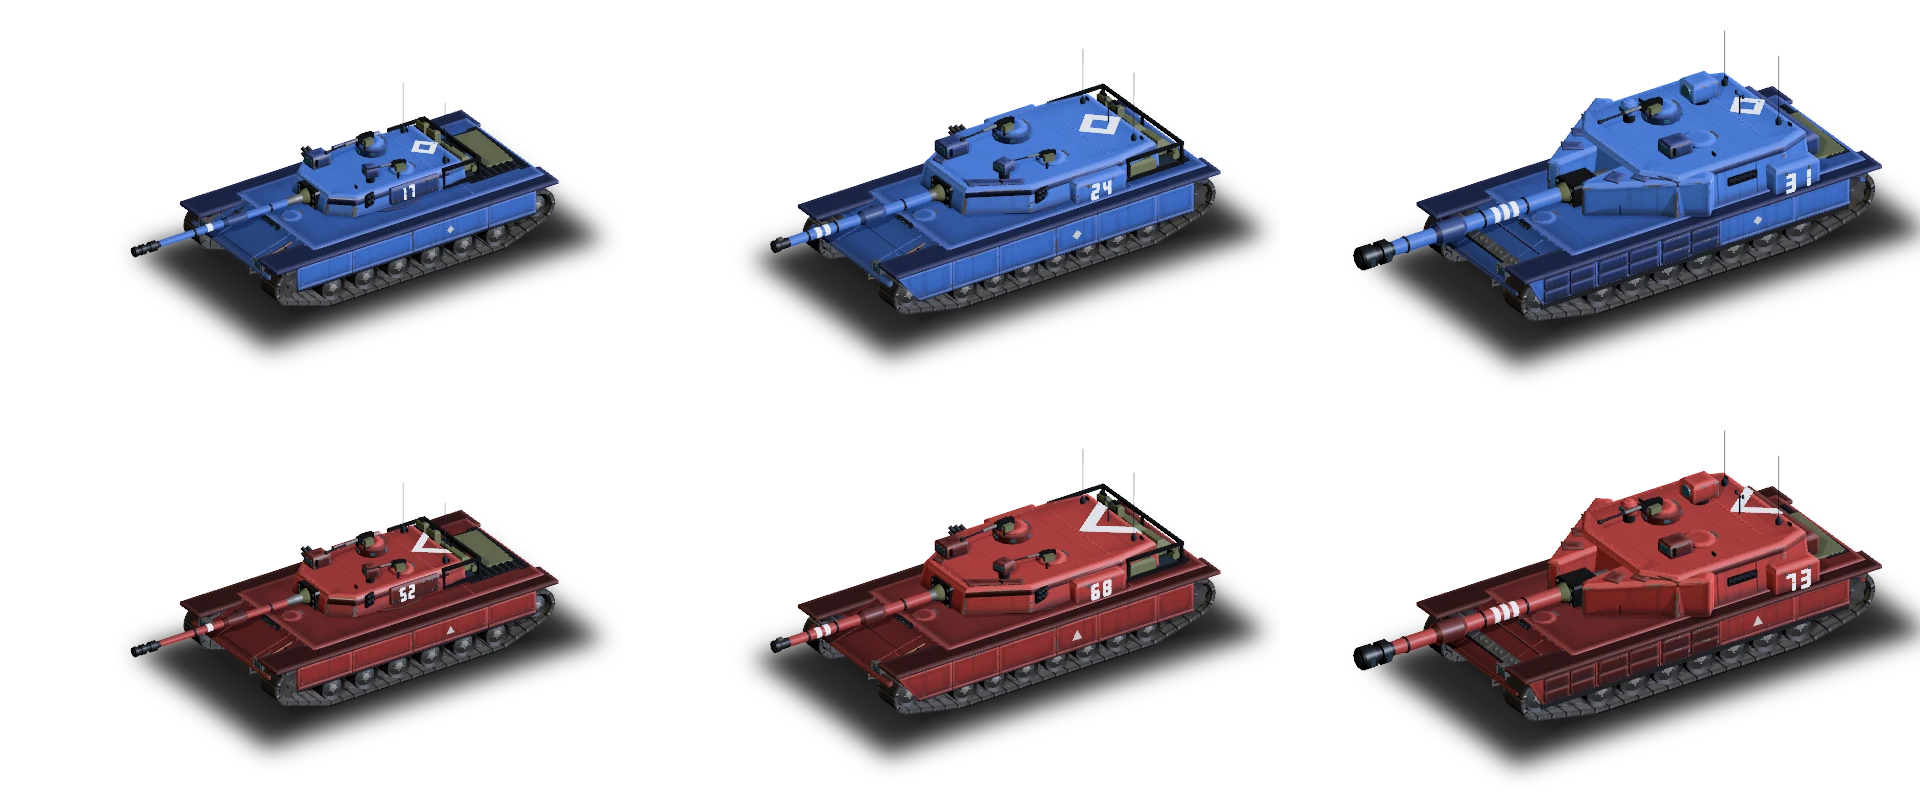
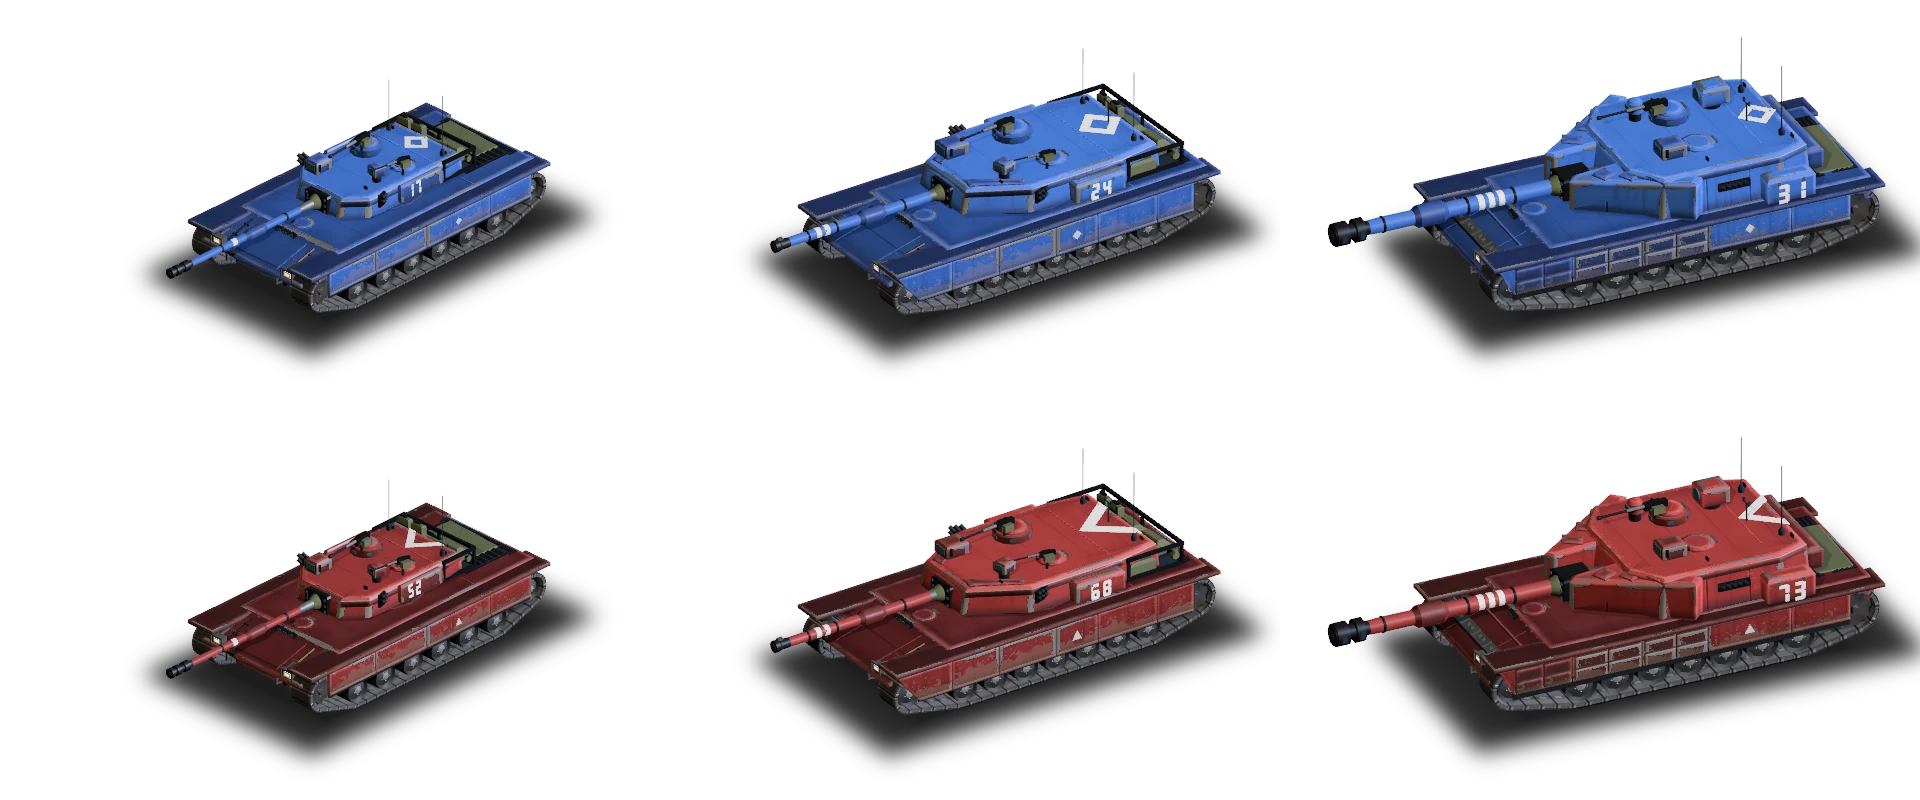
Vehicles round 9: worn markings, lamp lenses, readable edge wear, warm running gear
- Markings (roof chevron and diamond, unit numbers, gun and command bands, the
  Humvee's hood insignia) draw in the paint's own material as a warm stencil
  white that flakes through to the team paint and takes the map's dust, instead
  of pure unlit white; no extra draws.
- Headlight lenses (tanks and Humvee) use the paint effect's lamp mode: warm
  glass with a hot core falling off to a darker reflector ring, replacing the
  cyan glass pips and grey discs.
- Edge wear reads from the hero and first-person cameras and on the menu cards:
  a broken band of rubbed, paler paint along convex plate edges, chips resolved
  further out in a darker scuffed steel, mud spatter above the caked splash
  line, roughness drifting across panels, patchy dust on fender ledges.
- Running gear and track belt take a warm-neutral fill in the ground light's
  hue and a less metallic belt, so rubber and links stop picking up the sky's
  blue under the hull.
- Hulls never crush to black: more paint fill, lighter deep trim, a stronger
  team rim, a lighter turret and deck value step over the hull sides; the
  Humvee's paint a step brighter.
- Menu cards show light wear and dust, a deeper studio red, and a per-class
  pose (Skipper nose-in, Big Rig broadside); previews regenerated.

Triangles per model are unchanged (scout 7062/7076, balanced 7682/7680,
heavy 7810/7780, Humvee 10894/10886); model goldens updated for the lens and
markings moving into the paint batch.

diff --git a/tools/tank-previews.ts b/tools/tank-previews.ts
@@ -66,6 +66,15 @@ const FOOTPRINTS: Record<(typeof PREVIEW_KINDS)[number], [number, number]> = {
   balanced: [1.95, 4.27],
   heavy: [2.14, 4.7],
 };
+/** Each chassis' turn on its card (radians about up, positive turns the nose toward
+ * the viewer): the Skipper swings in nose first like the scout it is, the Bruiser
+ * holds the standard three-quarter view and the Big Rig turns its long flank to
+ * the card, so the three read apart by pose as well as by silhouette. */
+const POSE_YAW: Record<(typeof PREVIEW_KINDS)[number], number> = {
+  scout: 0.2,
+  balanced: 0,
+  heavy: -0.16,
+};
 const GROUND_Y = -0.17;
 const SHADOW_GROW = 0.35;
 const SHADOW_BLUR = 11;
@@ -126,12 +135,15 @@ function project([x, y, z]: Vec3): [number, number] {
 function contactShadow(context: CanvasRenderingContext2D, kind: (typeof PREVIEW_KINDS)[number]) {
   const [width, length] = FOOTPRINTS[kind];
   const [hx, hz] = [width / 2 + SHADOW_GROW, length / 2 + SHADOW_GROW];
-  const corners: Vec3[] = [
-    [-hx, GROUND_Y, -hz],
-    [hx, GROUND_Y, -hz],
-    [hx, GROUND_Y, hz],
-    [-hx, GROUND_Y, hz],
-  ];
+  const [sin, cos] = [Math.sin(POSE_YAW[kind]), Math.cos(POSE_YAW[kind])];
+  const corners: Vec3[] = (
+    [
+      [-hx, -hz],
+      [hx, -hz],
+      [hx, hz],
+      [-hx, hz],
+    ] as const
+  ).map(([x, z]) => [x * cos + z * sin, GROUND_Y, -x * sin + z * cos]);
   context.save();
   context.filter = `blur(${SHADOW_BLUR}px)`;
   context.fillStyle = `rgba(0, 0, 0, ${SHADOW_OPACITY})`;
@@ -183,7 +195,7 @@ export async function renderTankPreviews(): Promise<Record<string, string>> {
     for (const team of [0, 1]) {
       for (const kind of PREVIEW_KINDS) {
         const name = `${team}-${kind}`;
-        lab.add_vehicle(name, kind, team, 0, 0, 0, 0);
+        lab.add_vehicle(name, kind, team, 0, 0, 0, POSE_YAW[kind]);
         names.push(name);
       }
     }

diff --git a/crates/core/src/models/tank_surfaces.rs b/crates/core/src/models/tank_surfaces.rs
@@ -24,6 +24,7 @@ use std::sync::{Arc, OnceLock};
 use glam::{DMat4, DVec3};
 
 use super::model_primitives::Cache;
+use super::tank_model::MARKING_WHITE;
 use super::{Team, part};
 use crate::geometry::math::hex_to_linear;
 use crate::geometry::{Attribute, Buckets, Mesh, VERTEX_ALPHA};
@@ -38,12 +39,17 @@ use crate::scene::{Color, Effect, Material, Node, Shading, TextureRef};
 pub const VEHICLE_PAINT: [u32; 2] = [0x3864ae, 0x862b25];
 /// The Humvee's paint per team: the same team hue a step deeper and flatter, a
 /// soft-skinned truck's matte finish rather than the tanks' satin armor enamel.
-pub const HUMVEE_PAINT: [u32; 2] = [0x34598f, 0x6e2e28];
+pub const HUMVEE_PAINT: [u32; 2] = [0x3a62a0, 0x7a2d26];
 
 /// A team's vehicle body paint.
 pub fn vehicle_paint(team: Team) -> u32 {
     VEHICLE_PAINT[team.index()]
 }
+
+/// Lamp lenses (headlights of tanks and the Humvee): the livery paints them with
+/// the paint effect's lamp mode, a warm glass lens with a hot core that falls off
+/// toward a reflector ring, rather than a flat white or cyan square.
+pub const LAMP_LENS: u32 = 0xe8dcc0;
 
 /// The worn-metal image under `public/`, also used by the quarry's machinery.
 pub const ARMOR_WEAR_TEXTURE: &str = "textures/tanks/armor-wear.webp";
@@ -107,7 +113,7 @@ const GRADIENT_MIN_HEIGHT: f64 = 0.05;
 /// the dusty band to `DECK_HIGH` `DECK_RAMP` metres above it.
 const DECK_FACING: f64 = 0.5;
 const DECK_LOW: f64 = 0.6;
-const DECK_HIGH: f64 = 1.08;
+const DECK_HIGH: f64 = 1.12;
 const DECK_RAMP: f64 = 0.6;
 /// Every painted face darkens toward the ground: `HEIGHT_FOOT` at the ground
 /// line, full value `HEIGHT_SPAN` metres above it, so the hull reads lighter at the
@@ -124,17 +130,18 @@ const UPRIGHT: f64 = 0.6;
 /// the wear tile's. Running gear keeps its own vertex colors and takes only the fill.
 pub const VEHICLE_PAINT_EFFECT: &str = "vehicle-paint";
 /// The team rim's strength at a silhouette, and the paint's own fill light.
-const RIM_STRENGTH: f32 = 0.55;
-const PAINT_FILL: f32 = 0.14;
+const RIM_STRENGTH: f32 = 0.6;
+const PAINT_FILL: f32 = 0.26;
 /// Running gear sits in the hull's shadow: more fill, no rim.
-const GEAR_FILL: f32 = 0.6;
-/// Bare steel where the paint chipped through (sRGB).
-const BARE_STEEL: u32 = 0x5c5852;
+const GEAR_FILL: f32 = 0.85;
+/// Bare steel where the paint chipped through (sRGB): bright enough to read as
+/// scuffed metal against either team's paint rather than as a dark fleck of dirt.
+const BARE_STEEL: u32 = 0x6e6a63;
 /// The paint's value on the turret and on the hull: the turret a step lighter, so
 /// it stands off the deck from the overhead camera and its facing reads at a
 /// glance, the hull a step deeper beneath it.
-const TURRET_VALUE: f64 = 1.06;
-const HULL_VALUE: f64 = 0.86;
+const TURRET_VALUE: f64 = 1.1;
+const HULL_VALUE: f64 = 0.84;
 /// Recognition panels and turret bands: matte cloth and paint in a team's signal
 /// color, without a glow of their own (a glowing stripe has no source).
 const SIGNAL_GLOW: f32 = 0.0;
@@ -439,21 +446,24 @@ impl Livery<'_> {
         if material.roughness < GLOSSY_BELOW {
             return None;
         }
-        Some(if self.paint.contains(&color) {
-            // Trim shares the team paint's material: one painted material per
-            // team keeps a joint's paint in one draw.
-            Finish::Paint {
-                paint: self.paint[0],
-                trim: self.paint.get(1).copied().unwrap_or(self.paint[0]),
-                matte: self.matte,
-            }
-        } else if color == self.signal {
-            Finish::Signal(color)
-        } else if self.metal.contains(&color) || material.metalness >= 0.45 {
-            Finish::Metal
-        } else {
-            Finish::Matte
-        })
+        Some(
+            if self.paint.contains(&color) || color == MARKING_WHITE || color == LAMP_LENS {
+                // Trim, markings and lamp lenses share the team paint's material:
+                // one painted material per team keeps a joint's paint in one draw,
+                // and markings wear through to the paint under them.
+                Finish::Paint {
+                    paint: self.paint[0],
+                    trim: self.paint.get(1).copied().unwrap_or(self.paint[0]),
+                    matte: self.matte,
+                }
+            } else if color == self.signal {
+                Finish::Signal(color)
+            } else if self.metal.contains(&color) || material.metalness >= 0.45 {
+                Finish::Metal
+            } else {
+                Finish::Matte
+            },
+        )
     }
 }
 
@@ -664,8 +674,31 @@ fn paint_value_code(paint: bool, value: f64) -> f32 {
     (if paint { 0.5 + code } else { code }) as f32
 }
 
-/// Whether a code is the team paint (rather than trim), and its value.
+/// What a painted vertex wears: the team paint or trim (`paint_value_code`), the
+/// markings' white (the code plus 1) or a lamp lens (plus 2). Markings and lenses
+/// draw in the paint's own material, so they cost no draw of their own and wear
+/// with the paint: the white flakes to the team color under it and takes the dust.
+#[derive(Clone, Copy, PartialEq, Eq)]
+enum Coat {
+    Paint,
+    Trim,
+    Marking,
+    Lamp,
+}
+
+fn coat_code(coat: Coat, value: f64) -> f32 {
+    match coat {
+        Coat::Paint => paint_value_code(true, value),
+        Coat::Trim => paint_value_code(false, value),
+        Coat::Marking => 1.0 + paint_value_code(true, value),
+        Coat::Lamp => 2.0 + paint_value_code(true, value),
+    }
+}
+
+/// Whether a code is the team paint (rather than trim; markings and lamps count as
+/// paint), and its value.
 fn paint_value_decoded(code: f32) -> (bool, f32) {
+    let code = code.fract();
     let paint = code >= 0.5;
     let fraction = if paint { code - 0.5 } else { code };
     (paint, fraction * 2.0 * VALUE_RANGE as f32)
@@ -714,9 +747,13 @@ fn weathered(
         None => (Vec::new(), Vec::new()),
     };
     let base_linear = base.map(hex_to_linear);
-    let is_trim = match finish {
-        Finish::Paint { trim, paint, .. } => base == Some(trim) && trim != paint,
-        _ => false,
+    let coat = match (finish, base) {
+        (_, Some(MARKING_WHITE)) => Coat::Marking,
+        (_, Some(LAMP_LENS)) => Coat::Lamp,
+        (Finish::Paint { trim, paint, .. }, Some(base)) if base == trim && trim != paint => {
+            Coat::Trim
+        }
+        _ => Coat::Paint,
     };
     for (t, &(p, face)) in faces.iter().enumerate() {
         let root = plates.as_ref().map_or(t, |plates| plates.roots[t]);
@@ -737,8 +774,13 @@ fn weathered(
                     * deck_value(*point, face, grime)
                     * height_value(*point, grime)
                     * ground_shade(band_height(*point, grime), face);
-                let [r, g] = edges[index];
-                colors.push([r, g, paint_value_code(!is_trim, value)]);
+                // Markings lie on their plate: their own outline marks no edge.
+                let [r, g] = if coat == Coat::Marking {
+                    [NO_EDGES; 2]
+                } else {
+                    edges[index]
+                };
+                colors.push([r, g, coat_code(coat, value)]);
                 let (u, v) = paint_uv(*point, face);
                 out.uvs[index] = [u as f32, v as f32];
                 alphas.push(paint_alpha(*point, grime, chamfer));

diff --git a/crates/core/src/models/tests.rs b/crates/core/src/models/tests.rs
@@ -79,12 +79,12 @@ fn tank_dimensions_match_typescript() {
 fn vehicle_model_counts() {
     // (kind, team, meshes, vertices, triangles, hull, turret, barrel, track-group children)
     let expected = [
-        (VehicleKind::Scout, 0, 129, 21084, 7062, 110, 12, 6, 0),
-        (VehicleKind::Scout, 1, 129, 21126, 7076, 110, 12, 6, 0),
-        (VehicleKind::Balanced, 0, 146, 22944, 7682, 126, 12, 7, 0),
-        (VehicleKind::Balanced, 1, 146, 22938, 7680, 126, 12, 7, 0),
-        (VehicleKind::Heavy, 0, 133, 23328, 7810, 113, 12, 7, 0),
-        (VehicleKind::Heavy, 1, 133, 23238, 7780, 113, 12, 7, 0),
+        (VehicleKind::Scout, 0, 129, 21108, 7062, 110, 12, 6, 0),
+        (VehicleKind::Scout, 1, 129, 21150, 7076, 110, 12, 6, 0),
+        (VehicleKind::Balanced, 0, 146, 22968, 7682, 126, 12, 7, 0),
+        (VehicleKind::Balanced, 1, 146, 22962, 7680, 126, 12, 7, 0),
+        (VehicleKind::Heavy, 0, 133, 23352, 7810, 113, 12, 7, 0),
+        (VehicleKind::Heavy, 1, 133, 23262, 7780, 113, 12, 7, 0),
         (VehicleKind::Humvee, 0, 32, 32604, 10894, 12, 6, 4, 4),
         (VehicleKind::Humvee, 1, 32, 32580, 10886, 12, 6, 4, 4),
     ];
@@ -106,9 +106,9 @@ fn vehicle_model_counts() {
         assert!(model.find(part::MUZZLE).is_some());
     }
     let open = [
-        (VehicleKind::Scout, (132, 21598, 7280)),
-        (VehicleKind::Balanced, (149, 23458, 7900)),
-        (VehicleKind::Heavy, (136, 23842, 8028)),
+        (VehicleKind::Scout, (132, 21622, 7280)),
+        (VehicleKind::Balanced, (149, 23482, 7900)),
+        (VehicleKind::Heavy, (136, 23866, 8028)),
         (VehicleKind::Humvee, (32, 32604, 10894)),
     ];
     for (kind, expected) in open {
@@ -216,33 +216,33 @@ fn wreck_batches_match_golden() {
     #[rustfmt::skip]
     let expected: [(VehicleKind, usize, WreckPart, &[BatchSummary]); 4] = [
         (VehicleKind::Heavy, 1, WreckPart::Hull, &[
-            (3288, 0xdce2fdb4, 1895.8762, 0xa9da9e3f, 0xc4d9630c),
+            (3360, 0x2aa83920, 1915.3177, 0xcf4cdb3f, 0xd53a1e8f),
             (3522, 0xe910d1f9, 2351.8751, 0x3502a7c6, 0x92381cb9),
             (594, 0x1fdb38d4, 274.3541, 0xdee32360, 0xcf36a52b),
-            (180, 0x88dc8d75, 40.8671, 0x76c795e5, 0xa23f056c),
+            (108, 0xc7a113b5, 38.8671, 0x3ddbc8a5, 0xc415b1ce),
             (288, 0xd47a0c0d, -11.9209, 0x94d4f49d, 0xabe5a09e),
             (4392, 0x4bdecb59, -17.7343, 0x1ed3cce5, 0x564f6348),
             (1344, 0x3d775bdd, 2.8138, 0xb6ce257d, 0x2add3aad),
         ]),
         (VehicleKind::Humvee, 0, WreckPart::TurretBarrel, &[
-            (4560, 0x7b5fde4a, 1209.6605, 0x423aa6fe, 0x010d3415),
+            (4560, 0x7b5fde4a, 1209.6605, 0x423aa6fe, 0x60027354),
             (468, 0x74e31910, -19.0127, 0x96734335, 0x3079eafc),
             (936, 0xb40fca71, -27.4347, 0xe9946e96, 0xbc244bd7),
             (348, 0x4b30ac35, -7.1422, 0xa2ea73b1, 0x1593f5ea),
         ]),
         (VehicleKind::Scout, 0, WreckPart::Intact, &[
-            (5436, 0xda42b3f8, 3748.4700, 0xfdf9f5e0, 0xe00721a6),
+            (5652, 0xcc267002, 3968.4489, 0x9b3a03eb, 0xadc44c94),
             (7062, 0xa9042686, 1448.6980, 0xa524e123, 0xb8555db8),
-            (2208, 0x01189d96, 3182.8268, 0x8c5cd272, 0x426b07be),
-            (540, 0xabdb0fb7, -64.5104, 0x54b5ab99, 0x4ee6d521),
+            (2064, 0xbac9cd24, 2976.5249, 0x2e1717d5, 0x73f3b426),
+            (468, 0x7e03c0cf, -37.4211, 0x2cea9759, 0xd7a68d7c),
             (3852, 0x85f249fd, 5.7848, 0xc66fb1b5, 0x96fe6237),
             (1344, 0x546c08d5, 1.5827, 0x10f8f7cd, 0x234753be),
             (384, 0x13c12cb7, 3.9914, 0x7f59b8e5, 0x9618c970),
         ]),
         (VehicleKind::Balanced, 1, WreckPart::Barrel, &[
-            (480, 0x83d3ce01, -1.2731, 0x11ddcd3c, 0x5b34703b),
+            (600, 0x9bc2b8a9, 1.0451, 0xdbc48964, 0x2ad19f7a),
             (936, 0x42d872bf, 290.0387, 0xf6fa33ae, 0xb9eee0c3),
-            (300, 0x32eb4057, -4.8805, 0x5fe93231, 0xba882798),
+            (180, 0xec2d00af, 9.2942, 0xacf92475, 0x1f435be3),
         ]),
     ];
     for (kind, team, wreck_part, batches) in expected {

diff --git a/crates/core/src/models/tank_running_gear.rs b/crates/core/src/models/tank_running_gear.rs
@@ -22,9 +22,9 @@ use glam::{DVec2, DVec3};
 use super::super::Team;
 use super::super::model_primitives::{Cache, box_part, material, put, shadowed};
 use super::super::tank_kit::planar_uv;
-use super::super::tank_surfaces::{TRACK_BELT_PERIOD, track_belt_material, vehicle_glass};
+use super::super::tank_surfaces::{LAMP_LENS, TRACK_BELT_PERIOD, track_belt_material};
 use super::super::vertex_material;
-use super::{Chassis, GLASS_TINT, STENCIL};
+use super::{Chassis, STENCIL};
 use crate::geometry::Mesh;
 use crate::geometry::math::hex_to_linear;
 use crate::scene::{Material, Node};
@@ -1056,16 +1056,12 @@ fn armour_blocks(
     }
 }
 
-/// A lamp in a steel housing behind a three-bar brush guard. The lens is the
-/// sights' glass, so it mirrors the sky like a lamp's glass rather than reading as
-/// a flat white block (it shares the hull's glass draw).
+/// A lamp in a steel housing behind a three-bar brush guard. The livery paints the
+/// lens as a lamp: warm glass with a hot core falling off to its reflector ring.
 fn headlight(hull: &mut Node, c: &Chassis, side: f64) {
     let (x, y, z) = (side * 0.65, c.deck - 0.1, c.length / 2.0 - 0.07);
     put(hull, box_part(0.17, 0.12, 0.1, c.steel, 0.0), x, y, z);
-    let mut lens = box_part(0.12, 0.075, 0.012, 0, 0.0);
-    if let Some(drawable) = &mut lens.drawable {
-        drawable.material = vehicle_glass(GLASS_TINT);
-    }
+    let lens = box_part(0.12, 0.075, 0.012, LAMP_LENS, 0.0);
     put(hull, lens, x, y, z + 0.052);
     // A brush guard: two uprights under a top bar that reaches back to the housing.
     for dx in [-0.1, 0.1] {

diff --git a/crates/core/src/models/humvee_model.rs b/crates/core/src/models/humvee_model.rs
@@ -14,7 +14,7 @@ use std::sync::{Arc, OnceLock};
 
 use super::model_primitives::{material, paint, put, shadowed};
 use super::tank_model::{LENS_ROUGHNESS, MARKING_WHITE};
-use super::tank_surfaces::vehicle_glass;
+use super::tank_surfaces::{LAMP_LENS, vehicle_glass};
 use super::{Team, VehicleKind, part};
 use crate::geometry::Mesh;
 use crate::scene::{Material, Node};
@@ -48,7 +48,6 @@ const RUBBER: u32 = 0x2d3031;
 const GLASS: u32 = 0x1f3a40;
 const GAP: u32 = 0x101416;
 const CANVAS: u32 = 0x4f4a38;
-const HEADLAMP: u32 = 0x8f918b;
 const AMBER: u32 = 0xdf923b;
 const RED_LAMP: u32 = 0x931e16;
 /// Rubber, seals and canvas are matte.
@@ -89,9 +88,10 @@ impl Palette {
             Role::Gap => material(GAP, 0.0, MATTE_ROUGHNESS),
             Role::Canvas => material(CANVAS, 0.0, MATTE_ROUGHNESS),
             Role::Glass => vehicle_glass(GLASS),
-            // Lamps draw with the matte fittings: three draws fewer per Humvee. The
-            // headlamp lenses are an unlit grey glass rather than white blocks.
-            Role::Headlamp => material(HEADLAMP, 0.0, LENS_ROUGHNESS),
+            // The marker lamps draw with the matte fittings; the livery paints the
+            // headlamp lenses as lamps (warm glass, a hot core falling off to the
+            // reflector) in the paint's own draw.
+            Role::Headlamp => material(LAMP_LENS, 0.0, LENS_ROUGHNESS),
             Role::Amber => material(AMBER, 0.0, LENS_ROUGHNESS),
             Role::Red => material(RED_LAMP, 0.0, LENS_ROUGHNESS),
         }

diff --git a/crates/core/src/models/tank_model.rs b/crates/core/src/models/tank_model.rs
@@ -40,7 +40,7 @@ pub(crate) const STEEL: u32 = 0x6f706c;
 /// color is the body and the deep trim frames it, so the paint reads as a designed
 /// two-tone livery and the trim still reads as its team rather than as a black
 /// outline round the hull.
-const TRIM: [u32; 2] = [0x1c2f57, 0x4a1a14];
+const TRIM: [u32; 2] = [0x223a6a, 0x58211a];
 /// Sight and vision-block glass: a deep blue-green tint that mirrors the sky.
 pub(super) const GLASS_TINT: u32 = 0x25505a;
 pub(crate) const MARKING_WHITE: u32 = 0xdce7ee;
